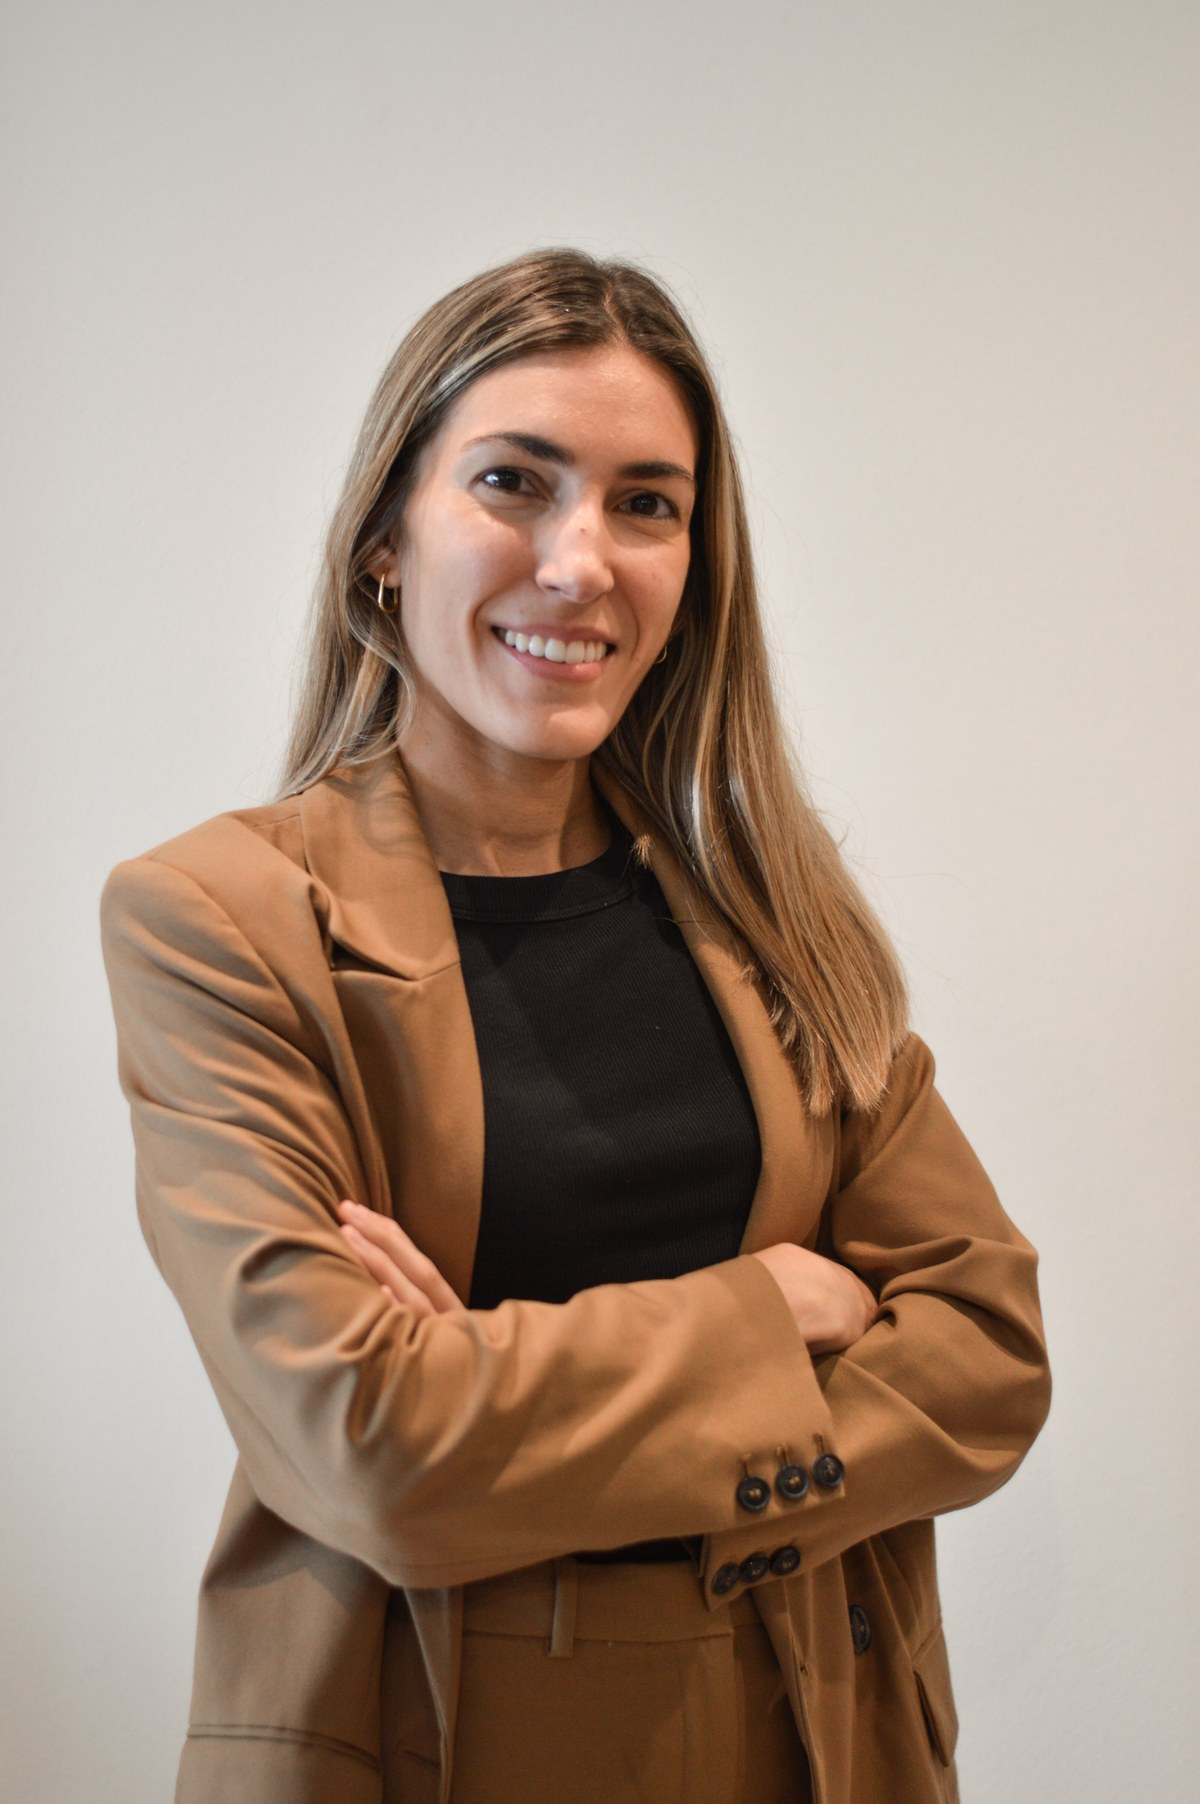
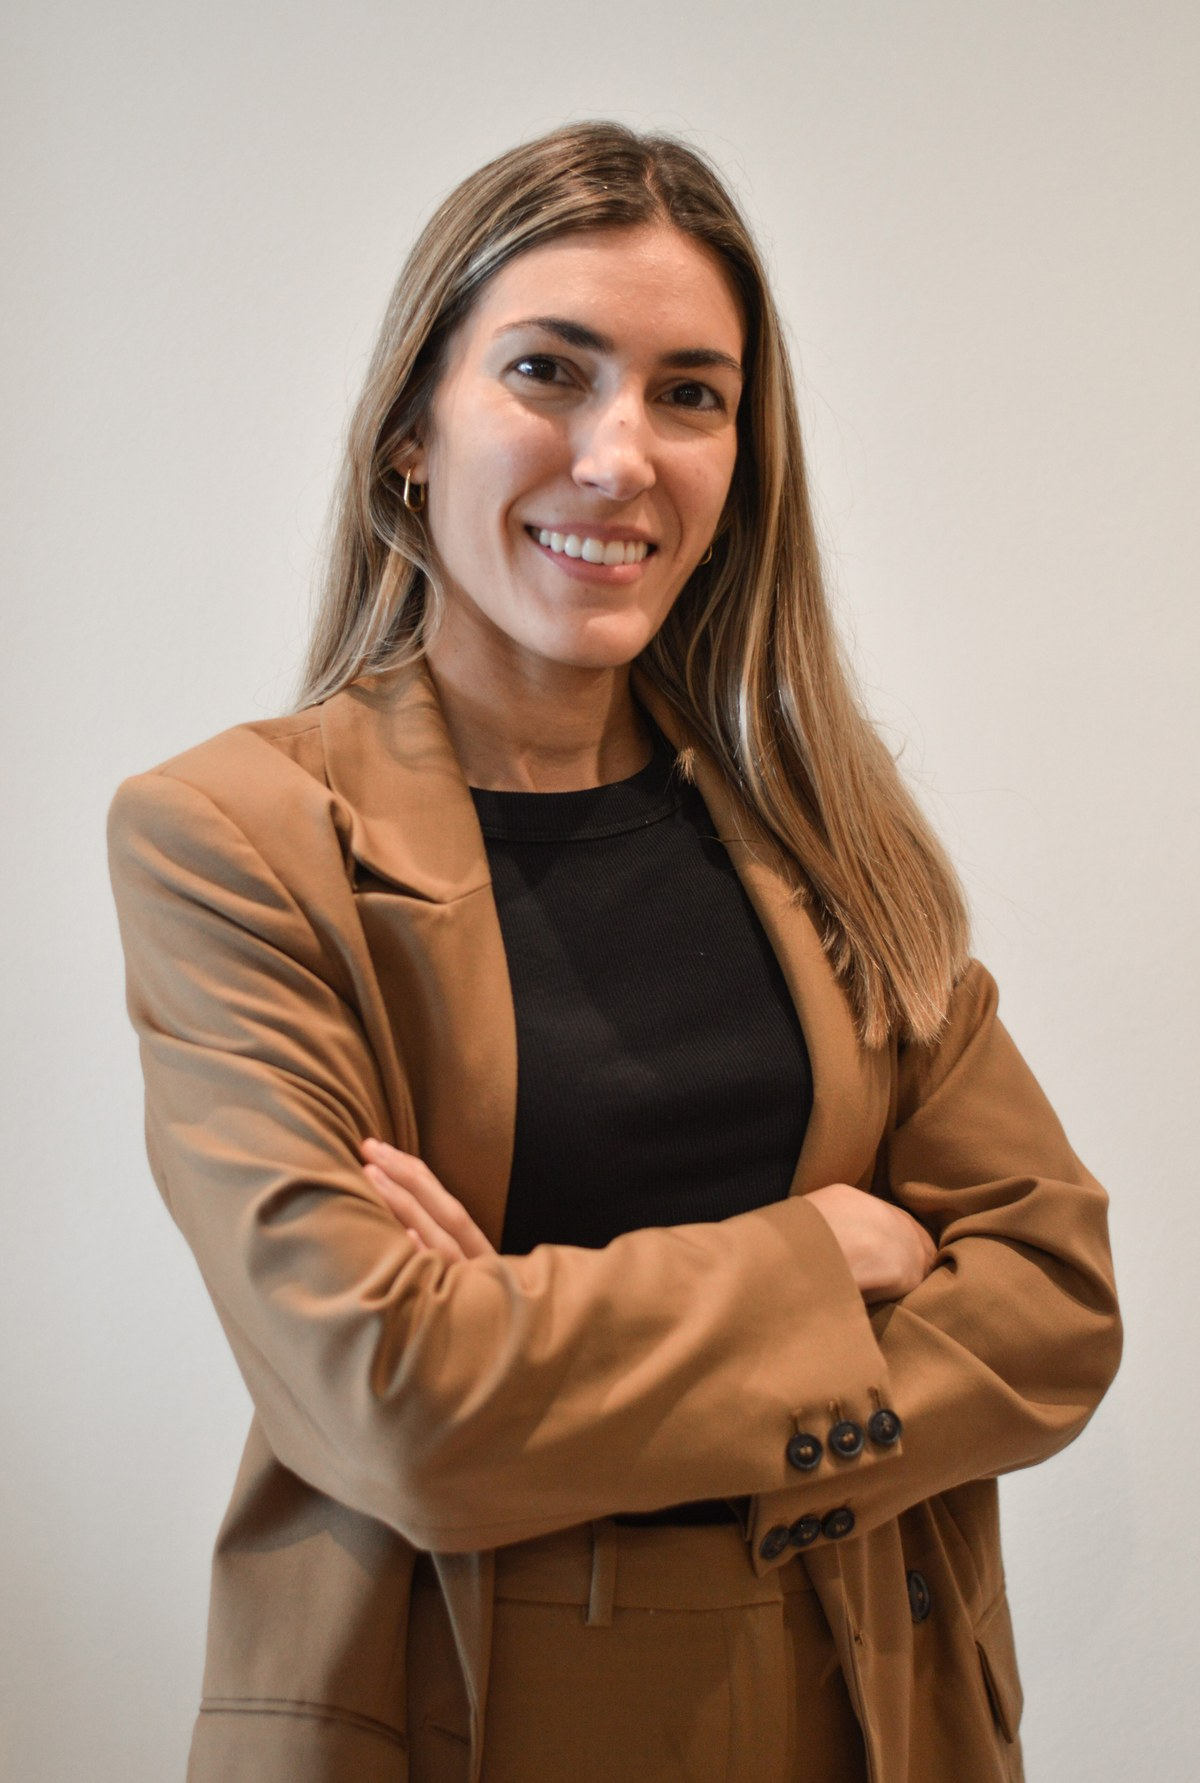
feat(ars-preview): update images with _ok files and remove ICAB pills

diff --git a/ars-preview/index.html b/ars-preview/index.html
@@ -24,7 +24,7 @@
   <link rel="preconnect" href="https://fonts.gstatic.com" crossorigin>
   <link href="https://fonts.googleapis.com/css2?family=Cormorant+Garamond:ital,wght@0,400;0,500;0,600;0,700;1,400;1,600&family=Plus+Jakarta+Sans:wght@300;400;500;600;700;800&display=swap" rel="stylesheet">
 
-  <link rel="stylesheet" href="styles.css?v=26">
+  <link rel="stylesheet" href="styles.css?v=27">
 </head>
 <body data-lang="ca">
 
@@ -463,9 +463,6 @@
         <div class="team-card reveal">
           <div class="team-img-wrap">
             <img src="assets/images/roger.jpg" alt="Roger Subirana - Soci Director ARS Advocats" class="team-img">
-            <div class="team-overlay">
-              <span class="team-pill">ICAB</span>
-            </div>
           </div>
           <div class="team-info">
             <div class="team-role-badge" data-i18n="team_role_partner">Soci Director</div>
@@ -488,9 +485,6 @@
         <div class="team-card reveal delay-1">
           <div class="team-img-wrap">
             <img src="assets/images/alex.jpg" alt="Alex Reus - Soci Director ARS Advocats" class="team-img">
-            <div class="team-overlay">
-              <span class="team-pill">ICAB</span>
-            </div>
           </div>
           <div class="team-info">
             <div class="team-role-badge" data-i18n="team_role_partner">Soci Director</div>
@@ -513,9 +507,6 @@
         <div class="team-card reveal delay-2">
           <div class="team-img-wrap">
             <img src="assets/images/anna.jpg" alt="Anna Camps - Advocada Col·laboradora ARS Advocats" class="team-img">
-            <div class="team-overlay">
-              <span class="team-pill">UAB</span>
-            </div>
           </div>
           <div class="team-info">
             <div class="team-role-badge team-role-collab" data-i18n="team_role_collab">Advocada Col·laboradora</div>
@@ -538,9 +529,6 @@
         <div class="team-card reveal delay-3">
           <div class="team-img-wrap">
             <img src="assets/images/dana.jpg" alt="Dana Costa Berenguer - Assistent Legal ARS Advocats" class="team-img">
-            <div class="team-overlay">
-              <span class="team-pill">UPF · UB</span>
-            </div>
           </div>
           <div class="team-info">
             <div class="team-role-badge team-role-assist" data-i18n="dana_role">Assistent Legal · Dret Penal</div>
@@ -840,6 +828,6 @@
   </a>
 
   <!-- Main JavaScript File -->
-  <script src="app.js?v=19"></script>
+  <script src="app.js?v=20"></script>
 </body>
 </html>
